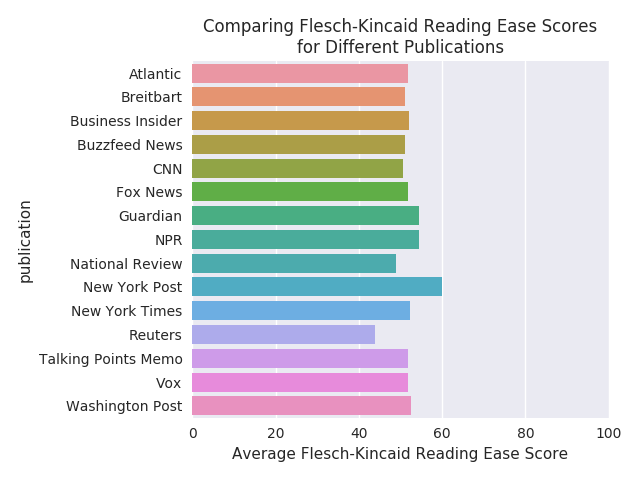
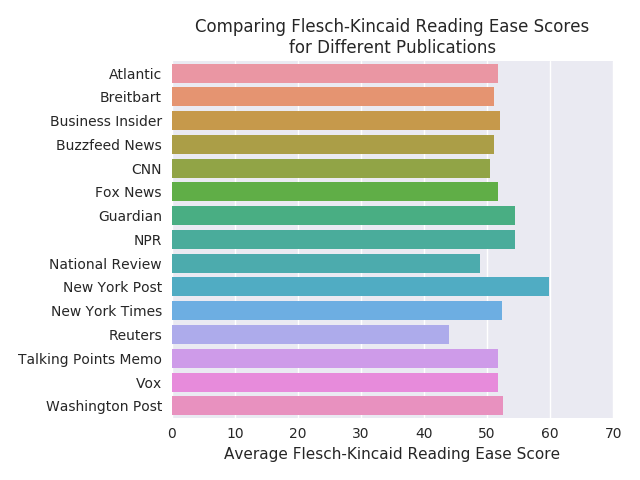
Slightly better graphs

Changed region(s): [[0.3125, 0.0312, 0.9375, 0.9688], [0.0312, 0.125, 0.3125, 0.9062], [0.9375, 0.875, 0.9688, 0.9062]]

diff --git a/analyze.py b/analyze.py
@@ -230,7 +230,7 @@ def analyze_news_data(news_data):
     print(publication_means.head())
     plot = sns.barplot(y='publication', x='score', data=publication_means)
     plot.set_title('Comparing Flesch-Kincaid Reading Ease Scores\nfor Different Publications')
-    plot.set(xlim=(0,100), xlabel='Average Flesch-Kincaid Reading Ease Score')
+    plot.set(xlim=(0,70), xlabel='Average Flesch-Kincaid Reading Ease Score', ylabel='')
     plt.tight_layout()
     save_plot(plot, './analysis/news/publication_comparison.png')
     # Scores by year
@@ -241,7 +241,7 @@ def analyze_news_data(news_data):
     plot = sns.pointplot(x='year', y='score', data=year_means)
     plot.set_title('Comparing Flesch-Kincaid Reading Ease Scores\nfor Different Years')
     plot.set_xticklabels(plot.get_xticklabels(), rotation=90)
-    plot.set(ylim=(0,100), ylabel='Average Flesch-Kincaid Reading Ease Score', xlabel='Year')
+    plot.set(ylim=(20,80), ylabel='Average Flesch-Kincaid Reading Ease Score', xlabel='')
     plt.tight_layout()
     save_plot(plot, './analysis/news/year_comparison.png')
 # End of analyze_news_data()
